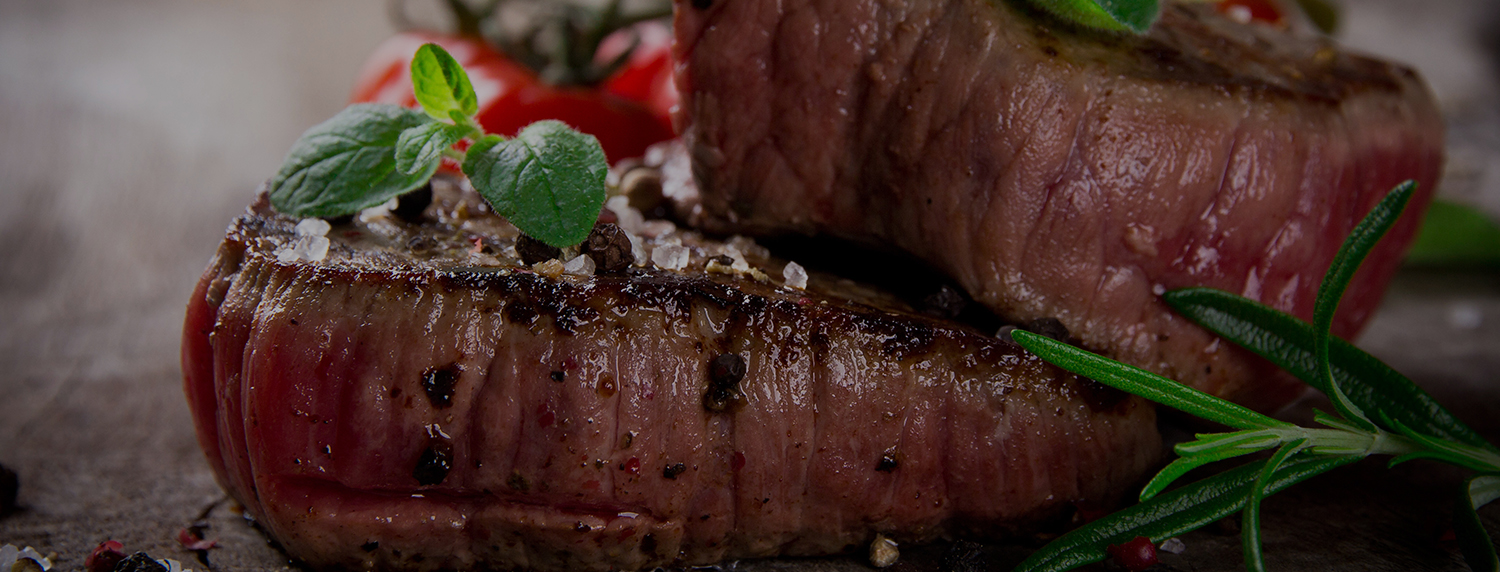
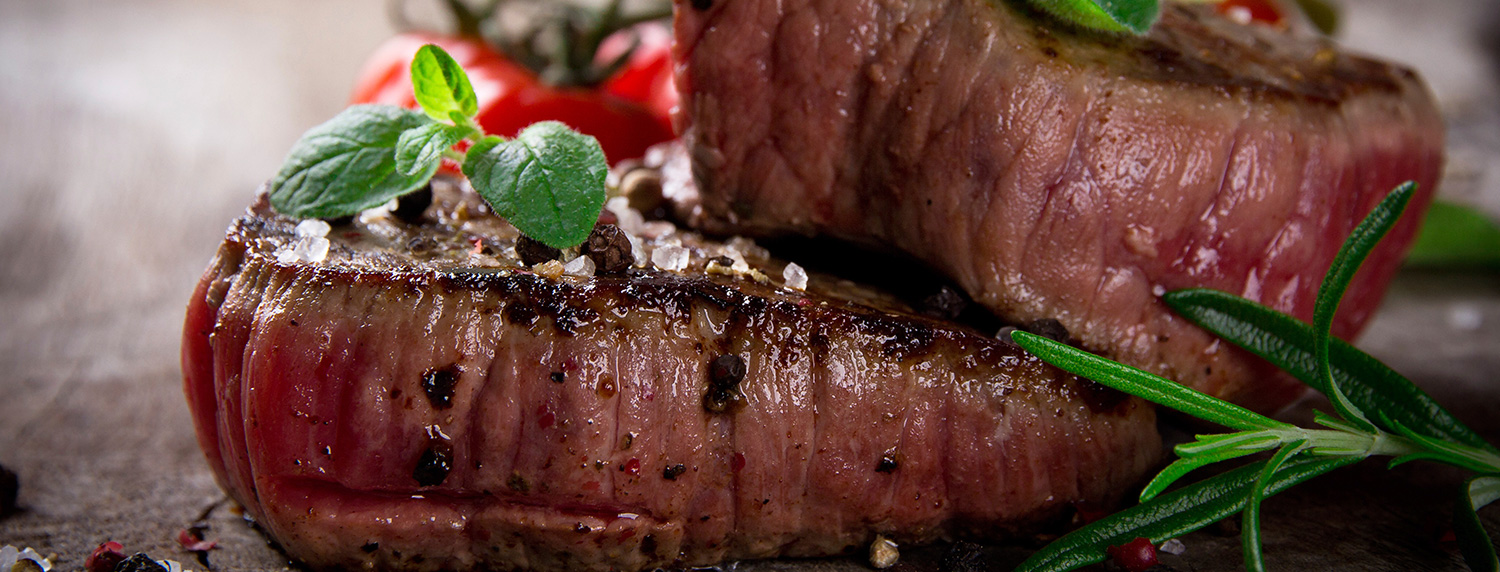
text widget company description styling

diff --git a/stylesheet.less b/stylesheet.less
@@ -137,16 +137,20 @@ blockquote {
   position: relative;
 }
 
-h1 {
-  display: inline;
-  text-align: center;
-  padding: 0px 20px;
-  margin: 0;
+.companyheader h4 {
+  font-family:@font-swatch5-font-family;
+  font-size:@font-swatch5-font-size;
+  font-weight: @font-swatch5-font-weight;
+  line-height:@font-swatch5-line-height;
+  color:@font-swatch10-color;
+  letter-spacing: @font-swatch5-letter-spacing;
 }
 
-/* ===============================
-   CUSTOM CSS
-   =============================== */
+.background-image-layer{
+    background-color: rgba(1, 1, 1, 0.1);
+    width:100%;
+    height:520px;
+}
 
 .companytitle {
   position: relative;
